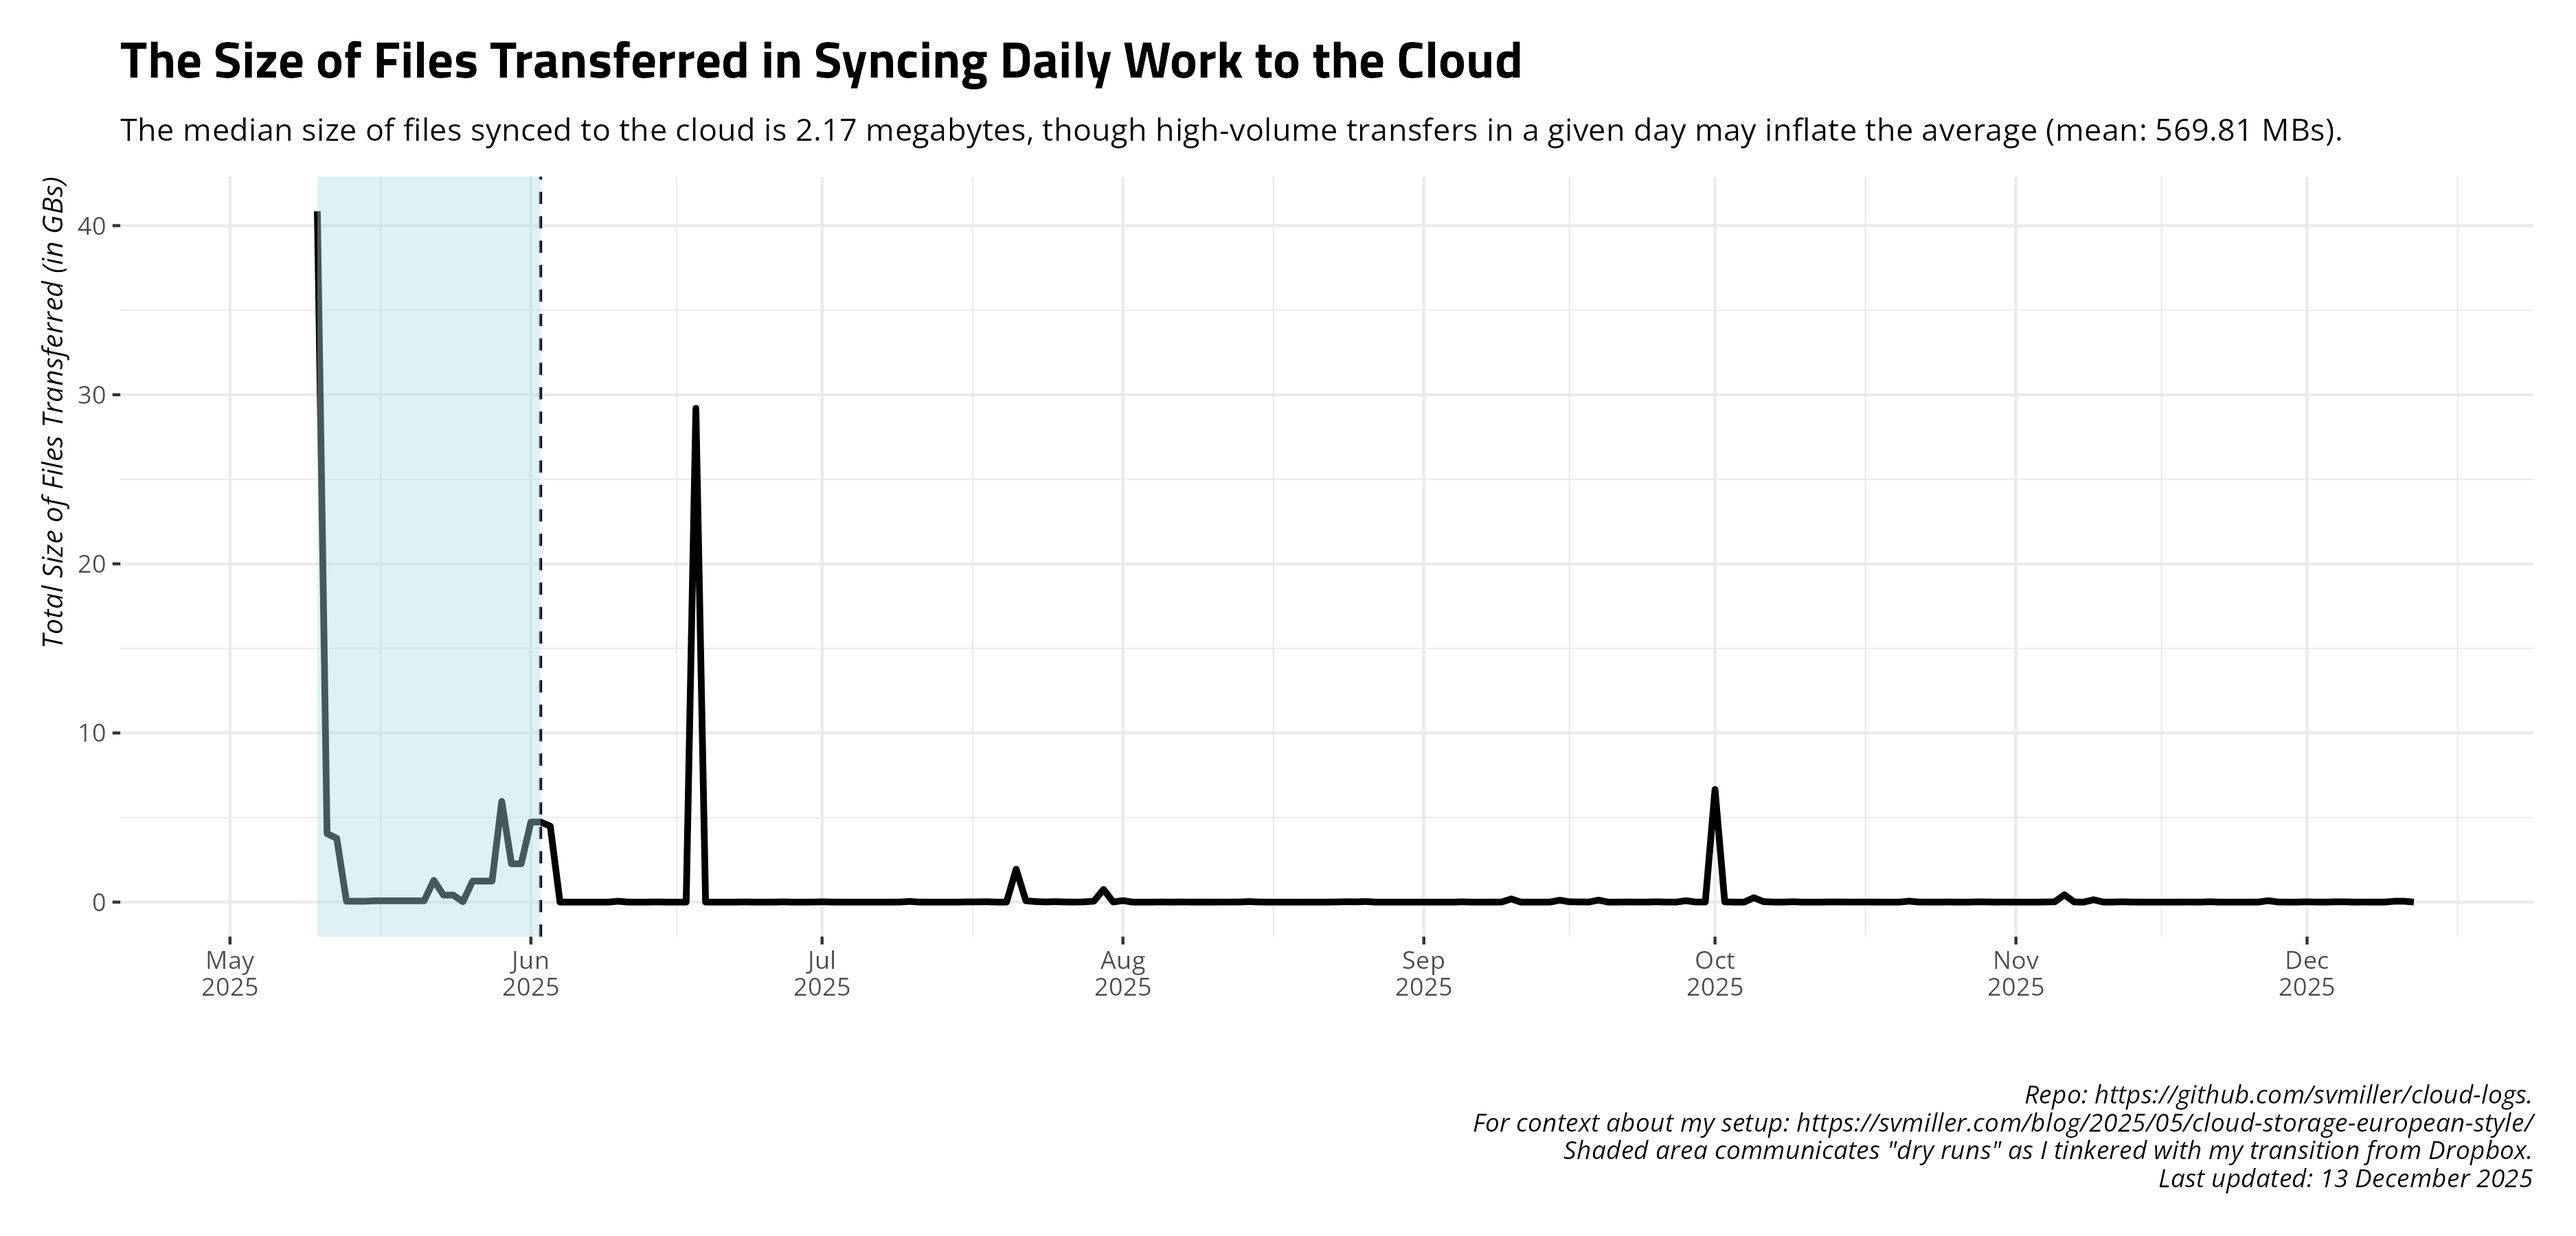
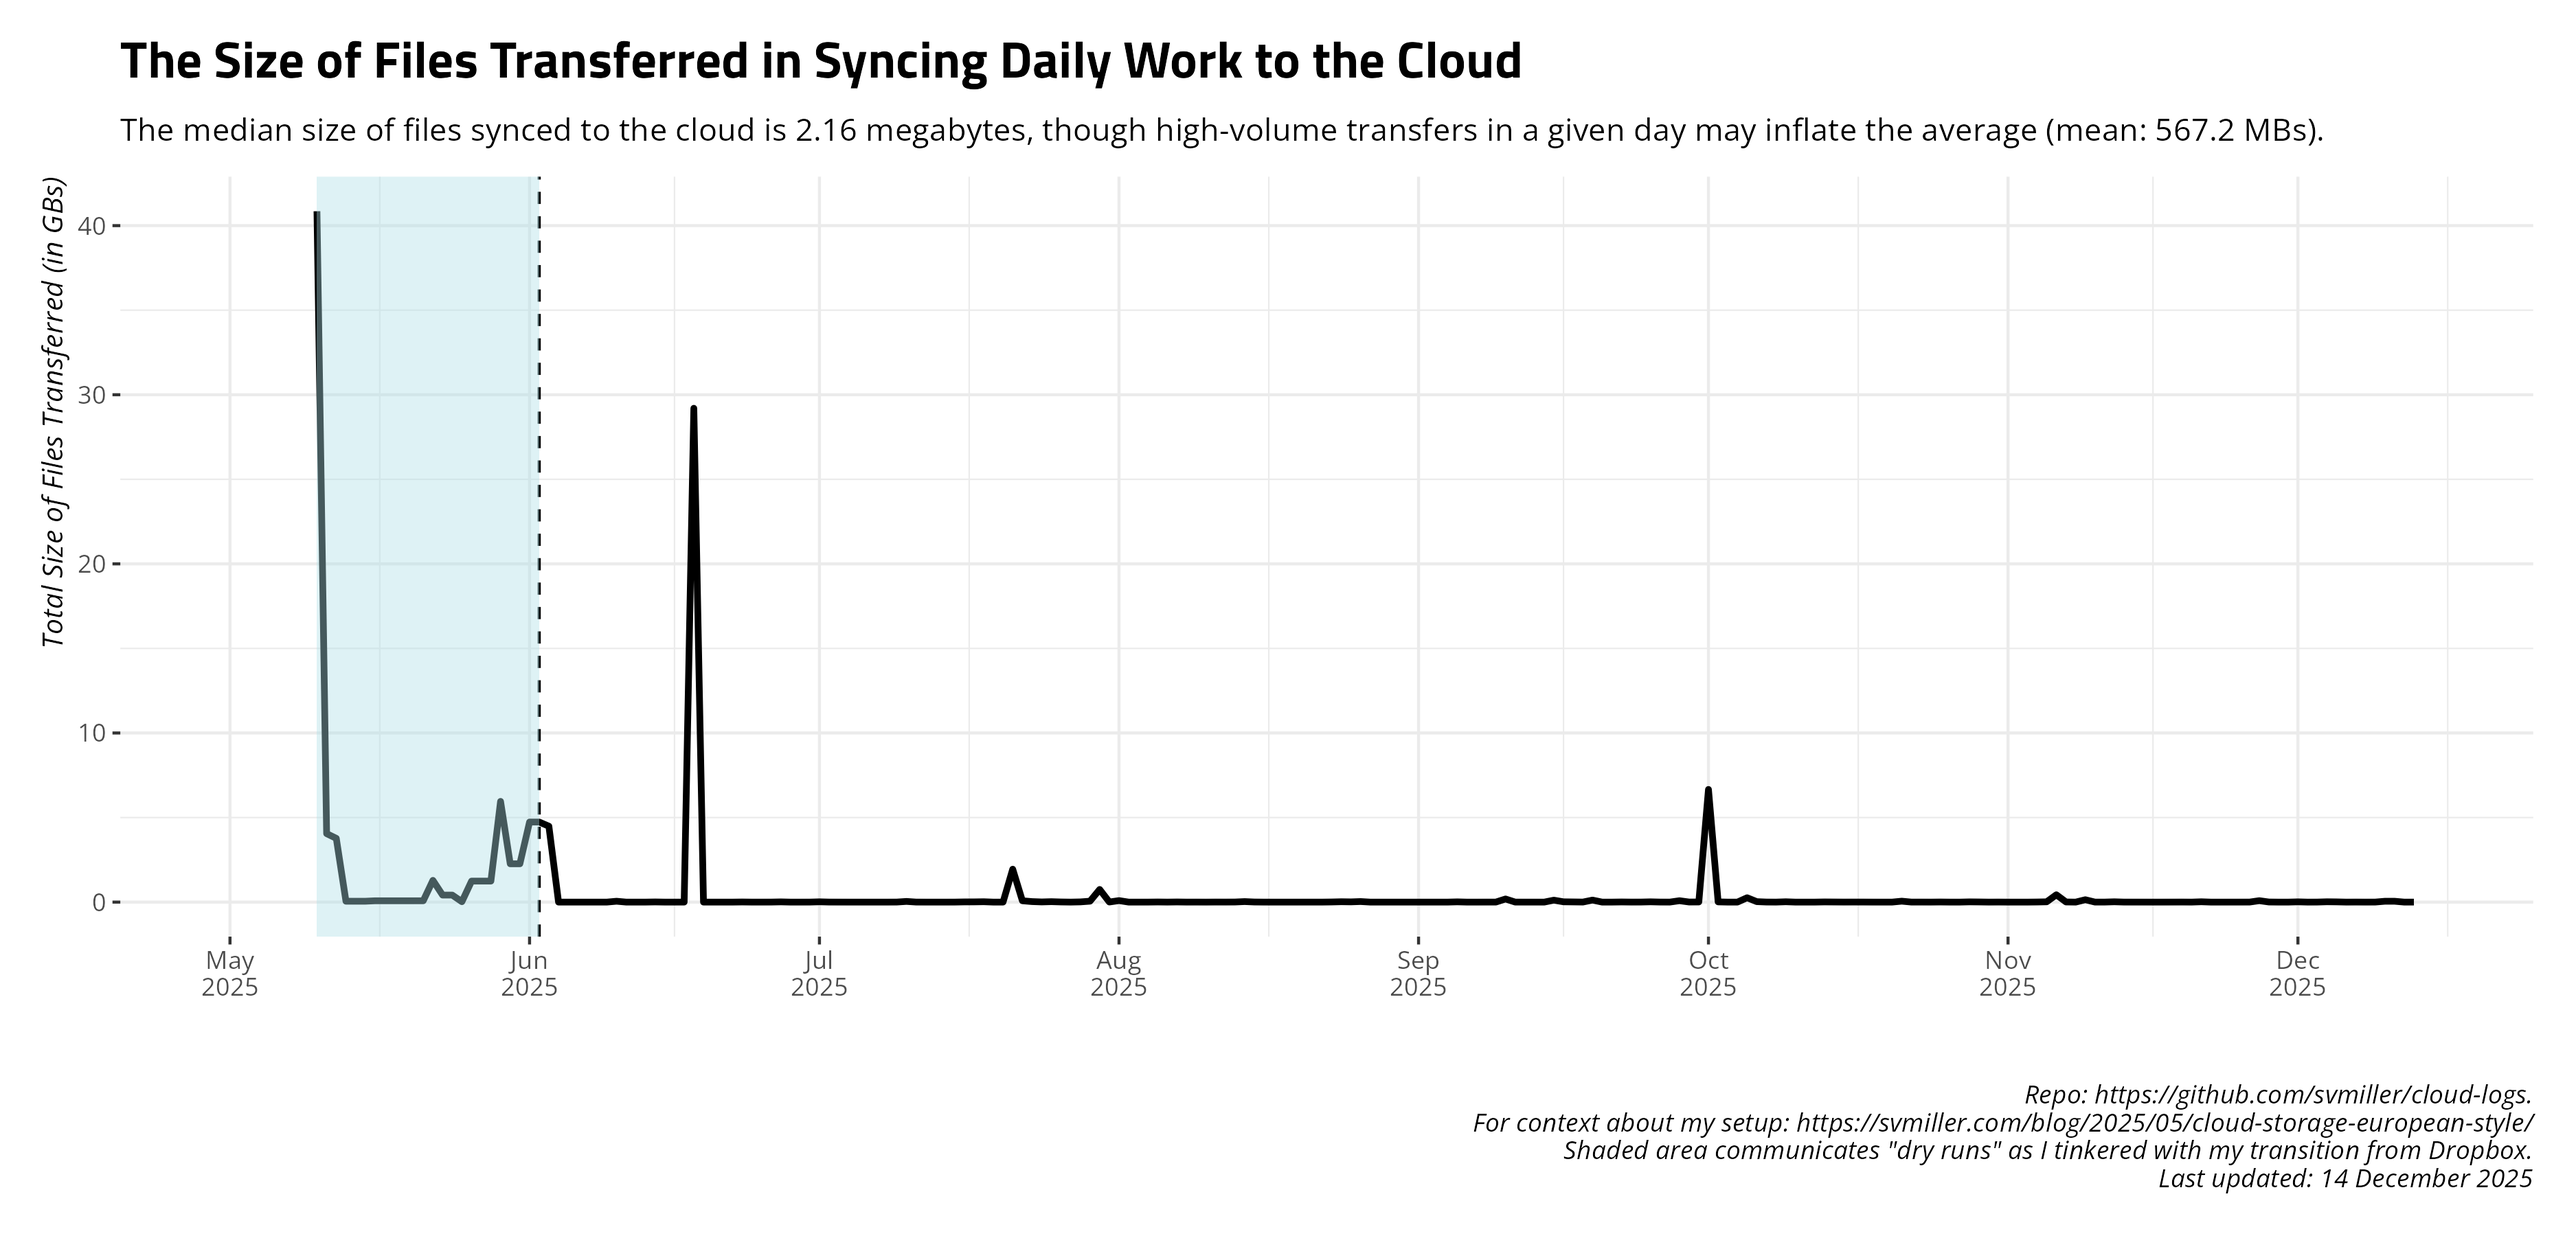
Date: 2025-12-14 09:00:18. Hi mom!

diff --git a/README.md b/README.md
@@ -27,17 +27,17 @@ and uploads to Github.
     #> # A tibble: 14 × 4
     #>    date       ftransfer stransfer   elapsed
     #>    <date>         <dbl> <chr>       <chr>  
-    #>  1 2025-11-29         2 3.240 KiB   5m0.7s 
-    #>  2 2025-11-30         7 58.153 KiB  4m59.8s
-    #>  3 2025-12-01        85 15.170 MiB  4m53.8s
-    #>  4 2025-12-02         9 18.048 KiB  4m59.7s
-    #>  5 2025-12-03        36 2.274 MiB   5m0.1s 
-    #>  6 2025-12-04       345 19.447 MiB  5m4.9s 
-    #>  7 2025-12-05        36 13.252 MiB  4m13.1s
-    #>  8 2025-12-06         1 51.788 KiB  5m2.5s 
-    #>  9 2025-12-07        82 2.917 MiB   4m24.3s
-    #> 10 2025-12-08        23 493.793 KiB 5m3.0s 
-    #> 11 2025-12-09        92 2.153 MiB   4m35.2s
-    #> 12 2025-12-10        65 50.997 MiB  5m2.3s 
-    #> 13 2025-12-11       330 51.367 MiB  5m10.8s
-    #> 14 2025-12-12        27 85.538 KiB  5m35.5s
+    #>  1 2025-11-30         7 58.153 KiB  4m59.8s
+    #>  2 2025-12-01        85 15.170 MiB  4m53.8s
+    #>  3 2025-12-02         9 18.048 KiB  4m59.7s
+    #>  4 2025-12-03        36 2.274 MiB   5m0.1s 
+    #>  5 2025-12-04       345 19.447 MiB  5m4.9s 
+    #>  6 2025-12-05        36 13.252 MiB  4m13.1s
+    #>  7 2025-12-06         1 51.788 KiB  5m2.5s 
+    #>  8 2025-12-07        82 2.917 MiB   4m24.3s
+    #>  9 2025-12-08        23 493.793 KiB 5m3.0s 
+    #> 10 2025-12-09        92 2.153 MiB   4m35.2s
+    #> 11 2025-12-10        65 50.997 MiB  5m2.3s 
+    #> 12 2025-12-11       330 51.367 MiB  5m10.8s
+    #> 13 2025-12-12        27 85.538 KiB  5m35.5s
+    #> 14 2025-12-13        32 756.606 KiB 4m18.3s
